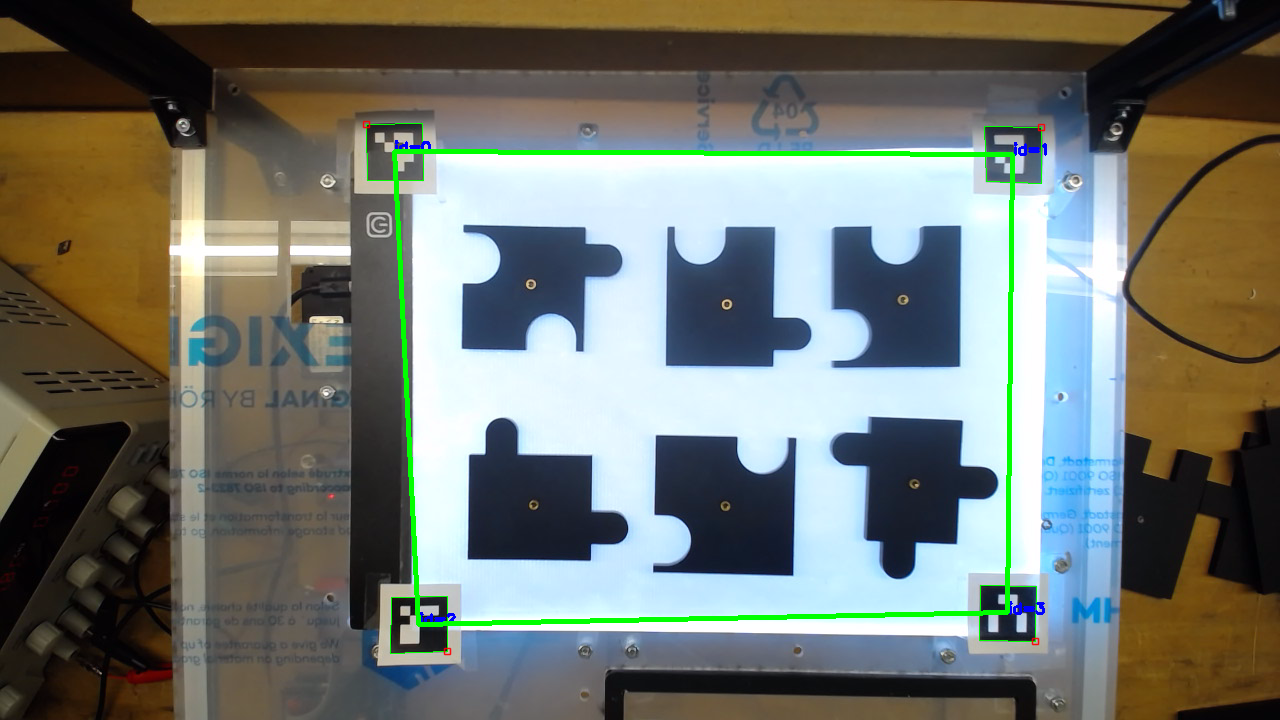
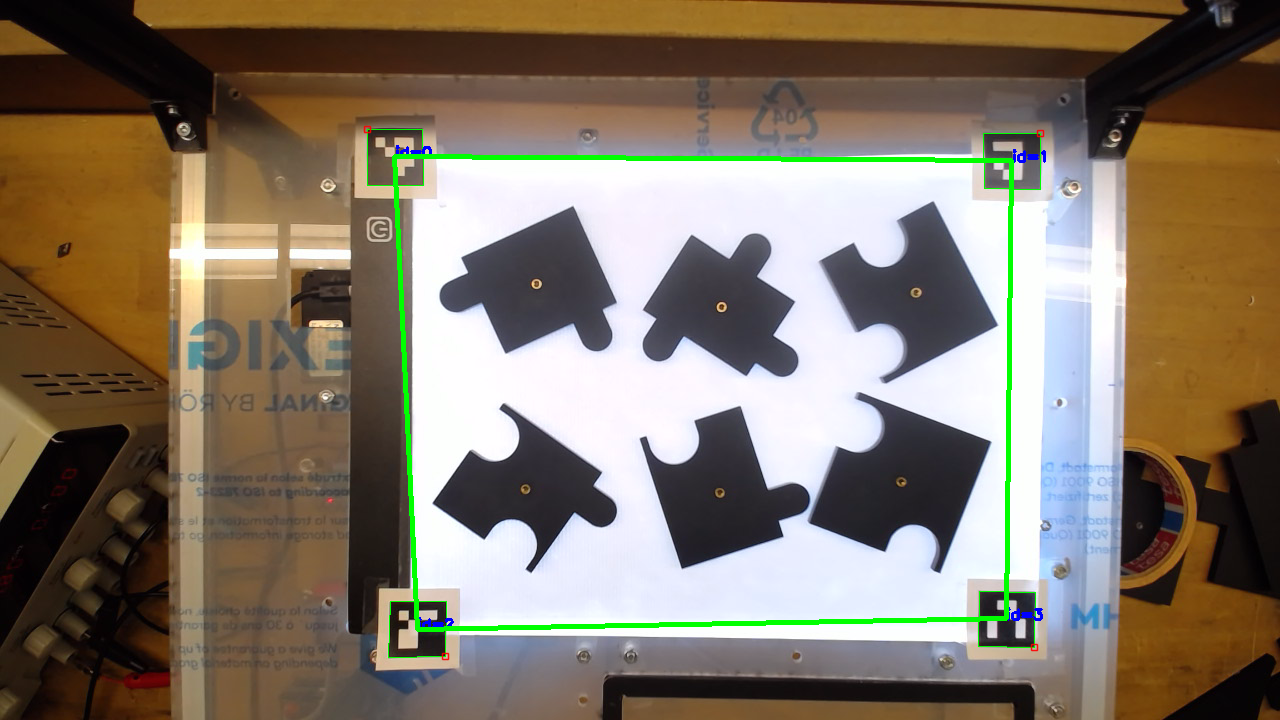
stabile lösung für schräge

diff --git a/solver/Puzzle/SmallSolver.py b/solver/Puzzle/SmallSolver.py
@@ -1277,6 +1277,122 @@ def _dfs_border_assign(border_info, W, H, n):
     return None
 
 
+# --------------------------------------------------------------------------- #
+# Geometry-based border detection (rotation-invariant fallback)
+# Used when pieces are at steep angles and corner detection gives wrong types.
+# --------------------------------------------------------------------------- #
+
+def _geo_border_count(piece, max_rel_dev=0.12, min_chord_px=8.0):
+    """Count how many of a piece's edges are geometrically flat (= border).
+
+    A flat edge has a maximum perpendicular deviation from its chord that is
+    less than max_rel_dev * chord_length.  This is invariant to the global
+    rotation of the piece on the light table.
+    """
+    count = 0
+    for e in piece.edges_:
+        pts = np.asarray(e.shape, dtype=float)
+        if len(pts) < 3:
+            continue
+        chord = pts[-1] - pts[0]
+        L = float(np.linalg.norm(chord))
+        if L < min_chord_px:
+            continue
+        u = chord / L
+        nrm = np.array([-u[1], u[0]])
+        max_dev = float(np.max(np.abs((pts - pts[0]) @ nrm)))
+        if max_dev / L < max_rel_dev:
+            count += 1
+    return count
+
+
+def _reclassify_borders_from_geometry(pieces, geo_counts):
+    """Re-mark edge types based on geometric flatness to match geo_counts.
+
+    For each piece, find the geo_counts[i] flattest edges and set them to
+    BORDER; the rest become UNDEFINED so _structure_ok stays lenient.
+    """
+    for p, n_border in zip(pieces, geo_counts):
+        # Compute relative max-deviation for every edge
+        devs = []
+        for e in p.edges_:
+            pts = np.asarray(e.shape, dtype=float)
+            if len(pts) < 3:
+                devs.append(1e9)
+                continue
+            chord = pts[-1] - pts[0]
+            L = float(np.linalg.norm(chord))
+            if L < 1.0:
+                devs.append(1e9)
+                continue
+            u = chord / L
+            nrm = np.array([-u[1], u[0]])
+            devs.append(float(np.max(np.abs((pts - pts[0]) @ nrm))) / L)
+        order = sorted(range(len(devs)), key=lambda i: devs[i])
+        border_set = set(order[:n_border])
+        for ki, e in enumerate(p.edges_):
+            if ki in border_set:
+                e.type = TypeEdge.BORDER
+            elif e.type == TypeEdge.BORDER:
+                # Was BORDER but isn't geometrically flat → UNDEFINED
+                e.type = TypeEdge.UNDEFINED
+        p.nBorders_ = n_border
+
+
+def _edge_rel_deviation(edge):
+    """Max perpendicular deviation of an edge from its chord, relative to chord length.
+    Small = flat (border-like). Returns a large value for degenerate edges."""
+    pts = np.asarray(edge.shape, dtype=float)
+    if len(pts) < 3:
+        return 1e9
+    chord = pts[-1] - pts[0]
+    L = float(np.linalg.norm(chord))
+    if L < 1.0:
+        return 1e9
+    u = chord / L
+    nrm = np.array([-u[1], u[0]])
+    return float(np.max(np.abs((pts - pts[0]) @ nrm))) / L
+
+
+def _force_borders_for_competition(pieces, n_corners=4, n_edges=2, log=print):
+    """Force border classification for a (n_corners + n_edges)-piece competition grid.
+
+    When both type-based and geometry-based detection fail (e.g. piece 6 has
+    nBorders_=0 because all its edges look curved at steep angles), we still know
+    the grid layout: 4 corner pieces (2 borders each) and 2 edge pieces (1 border).
+
+    Strategy:
+      1. For every piece, compute the relative deviation of each edge (flat = small).
+      2. Each piece gets a "corner score" = sum of the 2 flattest edge deviations.
+      3. Sort pieces by corner score ascending → flattest 4 = corners, next 2 = edges.
+      4. Re-mark edge types using _reclassify_borders_from_geometry.
+    """
+    corner_scores = []
+    for p in pieces:
+        devs = sorted(_edge_rel_deviation(e) for e in p.edges_)
+        # corner score = sum of 2 smallest deviations (lower = more corner-like)
+        corner_scores.append(devs[0] + devs[1] if len(devs) >= 2 else devs[0] if devs else 1e9)
+
+    order = sorted(range(len(pieces)), key=lambda i: corner_scores[i])
+    corner_set = set(order[:n_corners])
+    edge_set   = set(order[n_corners:n_corners + n_edges])
+
+    geo_counts = []
+    for i in range(len(pieces)):
+        if i in corner_set:
+            geo_counts.append(2)
+        elif i in edge_set:
+            geo_counts.append(1)
+        else:
+            geo_counts.append(0)
+
+    log(f"[small/force-borders] corner-scores: "
+        f"{[round(corner_scores[i], 3) for i in order]} → "
+        f"assigned {geo_counts}")
+    _reclassify_borders_from_geometry(pieces, geo_counts)
+    return geo_counts
+
+
 def solve_small(pieces, green=False, log=print):
     """Assemble a small (4-9 piece, w×h ≥2 grid) puzzle.
 
@@ -1300,14 +1416,38 @@ def solve_small(pieces, green=False, log=print):
     nE = sum(1 for p in pieces if p.nBorders_ == 1)
     nX = sum(1 for p in pieces if p.nBorders_ == 0)
     cands = _candidate_dims(n, nC, nE, nX) if 4 <= n <= 9 else []
+    if not cands and 4 <= n <= 9:
+        # Type-based classification failed — common when pieces lie at steep angles on
+        # the light table (corner detection becomes unstable at 30-45° → wrong nBorders_).
+        # Fall back to a GEOMETRY-BASED border detection: flat edges (deviation from chord
+        # < 12 % of chord length) are borders regardless of their classified type.
+        log(f"[small] type-based counts ({nC}C/{nE}E/{nX}X) don't match any grid — "
+            f"piece orientations may be steep; trying geometry-based border detection")
+        geo_counts = [_geo_border_count(p) for p in pieces]
+        geo_nC = sum(1 for c in geo_counts if c == 2)
+        geo_nE = sum(1 for c in geo_counts if c == 1)
+        geo_nX = sum(1 for c in geo_counts if c == 0)
+        cands = _candidate_dims(n, geo_nC, geo_nE, geo_nX)
+        if cands:
+            log(f"[small] geometry-based counts ({geo_nC}C/{geo_nE}E/{geo_nX}X) "
+                f"→ cands={cands}; re-marking edge types")
+            _reclassify_borders_from_geometry(pieces, geo_counts)
+        else:
+            # Last resort: for the 6-piece competition puzzle force the known grid shape
+            # AND forcibly assign border counts based on per-edge flatness so that
+            # _structure_ok can still place every piece (including pieces with
+            # nBorders_=0 like piece 6 in steep-angle arrangements).
+            if n == 6:
+                log("[small] geometry also uncertain → forcing 3×2 grid + border assignment")
+                cands = [(2, 3)]
+                _force_borders_for_competition(pieces, n_corners=4, n_edges=2, log=log)
+            else:
+                log(f"[small] not applicable: {n} pieces, no valid grid found "
+                    f"(type={nC}C/{nE}E/{nX}X, geo={geo_nC}C/{geo_nE}E/{geo_nX}X)")
+                return False
     if not cands:
-        nOver = sum(1 for p in pieces if p.nBorders_ > 2)
         log(f"[small] not applicable: {n} pieces, {nC} corners / {nE} edges / {nX} centers "
             f"— no rectangle matches this classification")
-        log(f"[small] per-piece border counts: {[p.nBorders_ for p in pieces]}")
-        if nOver:
-            log(f"[small] {nOver} piece(s) have >2 flat edges — upstream edge classification "
-                f"over-flagged connectors as BORDER (a real piece has at most 2 flat sides).")
         return False
     log(f"[small] candidate grid dim(s): {cands}")
 

diff --git a/start_gui.py b/start_gui.py
@@ -1,0 +1,136 @@
+"""
+Wettbewerb-Start-GUI fuer Raspberry Pi Touchscreen.
+Zeigt einen grossen "Start"-Knopf. Beim Druecken wird der Solver gestartet
+und die Terminal-Ausgabe live im Fenster angezeigt.
+Ausfuehren:  python start_gui.py
+"""
+
+import subprocess
+import sys
+import threading
+import tkinter as tk
+from pathlib import Path
+
+SOLVER_CMD = [sys.executable, "tests/run_robot_solver_small.py"]
+SCRIPT_DIR = Path(__file__).parent
+
+
+def start_solver(button: tk.Button, log_text: tk.Text) -> None:
+    button.config(state="disabled", text="Laeuft...")
+
+    # Clear previous output
+    log_text.config(state="normal")
+    log_text.delete("1.0", tk.END)
+    log_text.config(state="disabled")
+
+    def run():
+        try:
+            proc = subprocess.Popen(
+                SOLVER_CMD,
+                cwd=str(SCRIPT_DIR),
+                stdout=subprocess.PIPE,
+                stderr=subprocess.STDOUT,
+                text=True,
+                bufsize=1,
+            )
+            for line in proc.stdout:
+                _append_line(log_text, line)
+            proc.wait()
+            code = proc.returncode
+            msg = "\n[Fertig!]\n" if code == 0 else f"\n[Fehler – Code {code}]\n"
+        except Exception as exc:
+            msg = f"\n[Fehler: {exc}]\n"
+
+        _append_line(log_text, msg)
+        button.config(state="normal", text="Start")
+
+    threading.Thread(target=run, daemon=True).start()
+
+
+def _append_line(log_text: tk.Text, line: str) -> None:
+    """Thread-safe: append text and auto-scroll to bottom."""
+    def _do():
+        log_text.config(state="normal")
+        log_text.insert(tk.END, line)
+        log_text.see(tk.END)
+        log_text.config(state="disabled")
+    log_text.after(0, _do)
+
+
+def main() -> None:
+    root = tk.Tk()
+    root.title("PREN – Puzzle Solver")
+    root.attributes("-fullscreen", True)
+    root.configure(bg="#1a1a2e")
+    root.bind("<Escape>", lambda e: root.destroy())
+
+    # ── Top bar ──────────────────────────────────────────────────────────────
+    top = tk.Frame(root, bg="#1a1a2e")
+    top.pack(fill="x", padx=20, pady=(20, 5))
+
+    tk.Label(
+        top,
+        text="PREN Puzzle Solver",
+        font=("Helvetica", 24, "bold"),
+        bg="#1a1a2e",
+        fg="#e0e0e0",
+    ).pack(side="left")
+
+    btn = tk.Button(
+        top,
+        text="Start",
+        font=("Helvetica", 36, "bold"),
+        bg="#16a34a",
+        fg="white",
+        activebackground="#15803d",
+        activeforeground="white",
+        relief="flat",
+        padx=30,
+        pady=10,
+        cursor="hand2",
+    )
+    btn.pack(side="right")
+
+    tk.Button(
+        top,
+        text="Beenden",
+        font=("Helvetica", 14),
+        bg="#7f1d1d",
+        fg="white",
+        activebackground="#991b1b",
+        relief="flat",
+        padx=12,
+        pady=8,
+        command=root.destroy,
+    ).pack(side="right", padx=(0, 15))
+
+    # ── Log output area ───────────────────────────────────────────────────────
+    frame = tk.Frame(root, bg="#0f0f23")
+    frame.pack(fill="both", expand=True, padx=20, pady=(5, 20))
+
+    scrollbar = tk.Scrollbar(frame)
+    scrollbar.pack(side="right", fill="y")
+
+    log_text = tk.Text(
+        frame,
+        font=("Courier", 11),
+        bg="#0f0f23",
+        fg="#d4d4d4",
+        insertbackground="white",
+        yscrollcommand=scrollbar.set,
+        wrap="word",
+        state="disabled",
+        relief="flat",
+        padx=8,
+        pady=6,
+    )
+    log_text.pack(fill="both", expand=True)
+    scrollbar.config(command=log_text.yview)
+
+    btn.config(command=lambda: start_solver(btn, log_text))
+
+    root.mainloop()
+
+
+if __name__ == "__main__":
+    main()

diff --git a/tests/run_robot_solver_small.py b/tests/run_robot_solver_small.py
@@ -15,8 +15,8 @@ print("[BOOT] run_robot_solver.py wurde gestartet", flush=True)
 
 USE_CAMERA = True
 CAMERA_INDEX = 1
-SEND_TO_ROBOT = True
-ROBOT_PORT = "COM3"
+SEND_TO_ROBOT = False
+ROBOT_PORT = "/dev/serial/by-id/usb-Arduino_UNO_R4_Minima_320F192434313938A19D33334B572EE8-if00"  # Linux
 
 DEBUG_SAVE = True
 USE_SCREW_HOLE_PICK = True
